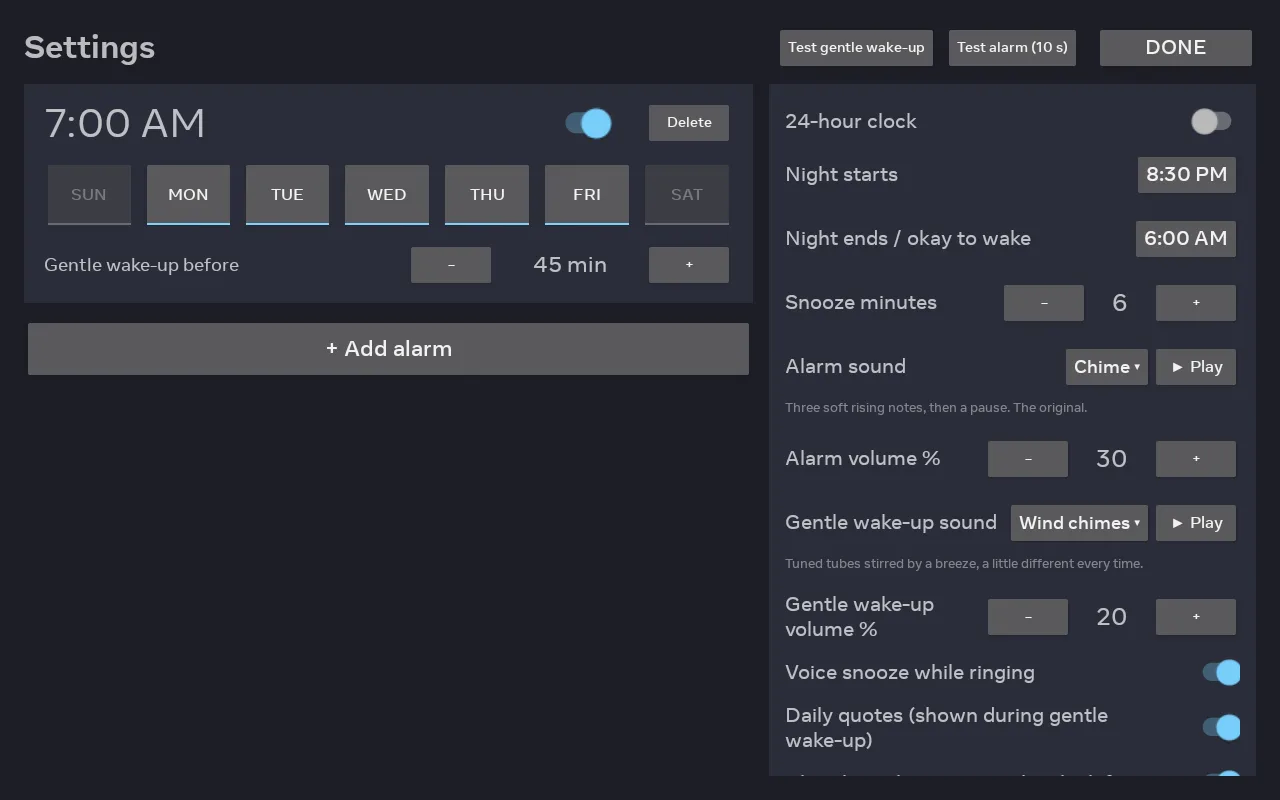
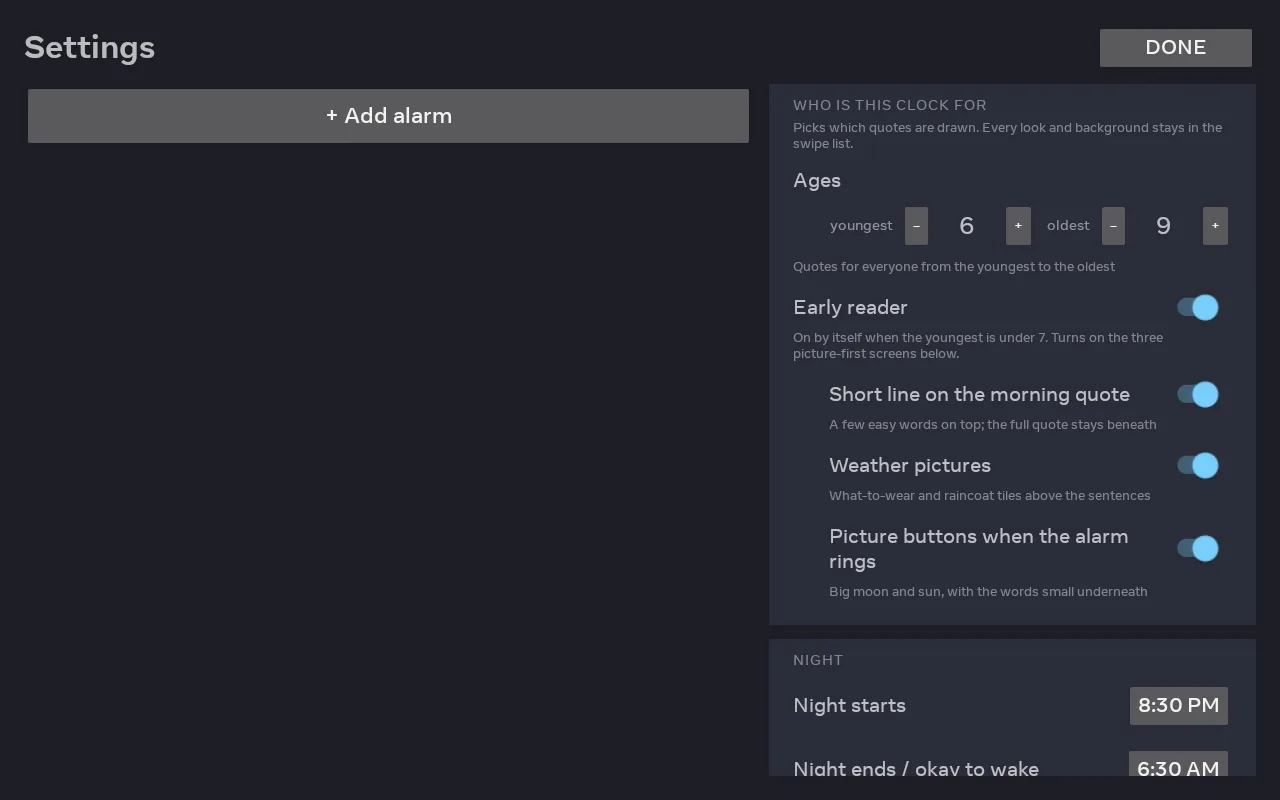
KidClock page: 0.5, one clock for two kids (#70)
Sixteen backgrounds and eighteen looks, the "Who is this clock for" card,
early-reader screens, the ring screen on the weather sky, wider voice
commands. Ten new Portal shots: the seven 0.5 themes, the ring screen, the
weather tiles and the gentle wake-up with its easy line; settings shot
refreshed. Home card text and alt updated.

Changed region(s): [[0.0, 0.0938, 0.9688, 0.9688], [0.5938, 0.0312, 0.8438, 0.0938], [0.0312, 0.3125, 0.1875, 0.3438]]

diff --git a/kidclock/index.html b/kidclock/index.html
@@ -4,7 +4,7 @@
 <meta charset="utf-8">
 <meta name="viewport" content="width=device-width, initial-scale=1">
 <title>KidClock</title>
-<meta name="description" content="KidClock: a fullscreen alarm clock for a converted 2018 Meta Portal. Gentle two-stage wake-ups, offline voice commands, a night mode that keeps the room dark, eleven looks for the time over nine backgrounds, holiday designs that appear on their own, a weather page written for a kid and a quote of the day. Free, open source, no accounts.">
+<meta name="description" content="KidClock: a fullscreen alarm clock for a converted 2018 Meta Portal. Gentle two-stage wake-ups, offline voice commands, a night mode that keeps the room dark, eighteen looks for the time over sixteen backgrounds, holiday designs that appear on their own, a weather page written for a kid, an early-reader mode for the youngest, and a quote of the day. Free, open source, no accounts.">
 <meta name="theme-color" content="#f4f6f8">
 <link rel="icon" type="image/png" href="../doomsday-tunnels/icon-192.png?v=2">
 <link rel="preload" href="../fonts/Syncopate-Bold.woff" as="font" type="font/woff" crossorigin>
@@ -65,7 +65,7 @@ footer p{margin:0}
 <header>
   <p class="crumb"><a href="../">Andrew Chase</a> / KidClock</p>
   <h1>KidClock</h1>
-  <p class="lede">An alarm clock for a kid's room, built for the 2018 Meta Portal once <a href="https://github.com/fcjr/unmetaportal">unmetaportal</a> has freed it to run plain Android. It wakes gently, keeps the room dark at night, listens for "I'm awake" only while it is supposed to, and never asks anyone to log in to anything.</p>
+  <p class="lede">An alarm clock for a kid's room, built for the 2018 Meta Portal once <a href="https://github.com/fcjr/unmetaportal">unmetaportal</a> has freed it to run plain Android. It wakes gently, keeps the room dark at night, listens for "I'm awake" only while it is supposed to, and never asks anyone to log in to anything. One clock can serve two kids of different ages: it asks how old they are and meets the youngest with pictures.</p>
   <p class="links">
     <a class="go" href="https://github.com/acechase/kidclock/releases/latest">Download the APK</a>
     <a href="https://github.com/acechase/kidclock">Code on GitHub</a>
@@ -86,11 +86,13 @@ footer p{margin:0}
     <li><strong>Two-stage mornings.</strong> A chosen number of minutes before the alarm, a soft sound plays once, the screen brightens with a green okay-to-wake lamp and the morning's quote appears. Saying "I'm awake" or tapping the button cancels that day's alarm. Otherwise the real alarm rings, ramping up over half a minute.</li>
     <li><strong>Sounds tuned to the research on waking.</strong> Five alarm sounds and five gentle sounds, all synthesized in code: hummable melodies around C5 at 112 BPM rather than mechanical beeps, with a music box, wind chimes, birdsong, a kalimba and a harp for the gentle side. Each has its own volume and a Play button to audition it.</li>
     <li><strong>Night mode</strong> from 8:30 pm to 6:30 am by default: amber digits on black, the screen dimmed as far as it goes, a red moon that turns into a green sun when it is okay to get up. An Always night switch keeps the amber-on-black colours all day at normal brightness.</li>
-    <li><strong>Voice without a cloud.</strong> "Snooze", "stop" and "I'm awake" are recognised on the device by Vosk. The microphone opens only while an alarm is ringing or a gentle wake-up is in progress, and the camera is never requested at all.</li>
-    <li><strong>Nine backgrounds</strong> to swipe between: Sky, Ocean, Rainbow, Galaxy, Fireflies, Aurora, Meadow, Doodle Strings (beaded pink strings hung with hearts doodled in a dozen marker styles, swaying) and Notebook (a ruled page covered in doodled hearts).</li>
-    <li><strong>Eleven looks for the time itself</strong>, chosen separately from the background. Hold the time for two seconds and a ring fills under your finger; then swipe sideways through Classic, Bold, Stacked, a real Analog dial for learning to read a clock, Sketch (marker on a paper scrap), Whacky (every digit a different font and tilt), Pixel, Magnets, Tiara (slim serif digits in champagne rose with a fine tiara on the hour), Marker (Caveat digits with a scribbled pink underline) and Marker Stacked (the stacked layout in pink marker with doodled tiaras), and tap to keep one. Every look has an amber night version.</li>
+    <li><strong>Voice without a cloud.</strong> "Snooze", "stop", "off", "I'm up" and "I'm awake" are recognised on the device by Vosk. The microphone opens only while an alarm is ringing or a gentle wake-up is in progress, and the camera is never requested at all.</li>
+    <li><strong>Who is this clock for.</strong> Settings opens by asking the kids' ages. The oldest age picks which quotes are drawn. An Early reader switch, on by itself when the youngest is under seven, turns on three picture-first screens, each with its own override: a few easy words ("Keep going.") big over the full quote during the gentle wake-up, what-to-wear and raincoat tiles above the sentences on the weather page, and a big moon and sun on the ring screen with the words small underneath.</li>
+    <li><strong>The ring screen</strong> sits on the day's weather sky for everyone, with Snooze and "I'm up!" as two large buttons. "Stop", "off" and "I'm up" end an alarm or a gentle wake-up by voice.</li>
+    <li><strong>Sixteen backgrounds</strong> to swipe between: Sky, Ocean, Rainbow, Galaxy, Fireflies, Aurora, Meadow, Doodle Strings (beaded pink strings hung with doodled hearts, swaying), Notebook (a ruled page covered in doodled hearts), Soccer Board (a coach's whiteboard with a pale green pitch, doodled round the edge with balls, boots, goals and jerseys), Stadium (floodlight masts beaming down on a night pitch, a goal with its net), Crab Tank (a hermit crab tank with sand, dishes, shells and driftwood), Night Reef (a reef after dark with swaying weed and bubbles), Stuffies (five plush animals on a star sheet, who swap places each day and wave now and then), Doodle Notebook (a ruled page of rockets, tanks, monsters, dinosaurs and a UFO) and Blueprint (the same figures inked white on blue with labels and a title block).</li>
+    <li><strong>Eighteen looks for the time itself</strong>, chosen separately from the background. Hold the time for two seconds and a ring fills under your finger; then swipe sideways through Classic, Bold, Stacked, a real Analog dial for learning to read a clock, Sketch (marker on a paper scrap), Whacky (every digit a different font and tilt), Pixel, Magnets, Tiara (slim serif digits in champagne rose with a fine tiara on the hour), Marker (Caveat digits with a scribbled pink underline), Marker Stacked (the stacked layout in pink marker with doodled tiaras), Jersey (navy numerals with a green shadow and a navy-and-white date pill), Scoreboard (glowing yellow digits on a black panel, the date in red LED capitals), Beach, Bubble (each digit in its own pale blue bubble), Plush (cream digits outlined in brown with a pink felt shadow), Marker Blue and Stencil (Black Ops digits like a part number on a crate), and tap to keep one. Every look has an amber night version.</li>
     <li><strong>Holiday designs.</strong> New Year's Eve, Valentine's Day, St. Patrick's Day, Easter, the Fourth of July, Halloween, Thanksgiving and Christmas each have their own background and lettering, from a witch hat on the hour to a string of fairy lights. Each appears by itself three days before the holiday and goes away the day after, giving the chosen design back. Swiping to another background or look in the meantime counts as a decision and keeps that choice. A switch in Settings turns the whole thing off.</li>
-    <li><strong>A quote a day, six actually.</strong> From a library of 260 quotes and bits of advice picked for a bright eleven-year-old, six are drawn each morning; tap the quote to see the next one.</li>
+    <li><strong>A quote a day, six actually.</strong> From a library of 260 quotes and bits of advice, each marked with the youngest age it suits, six are drawn each morning for the oldest kid using the clock; tap the quote to see the next one.</li>
     <li><strong>Weather</strong> from Open-Meteo with no key. Tap it for a page written for a kid rather than a meteorologist: how it feels now, where the day is going ("It warms up to 67° this afternoon, which is nice."), whether to pack a raincoat, what to wear ("Wear a hoodie or a light jacket. You can take it off later."), the temperature when leaving for school, at lunch, after school and at bedtime, and the week in a sentence ("Rain tomorrow, then it gets warmer every day. Wednesday is the warmest."). The page is painted for the sky at that moment: sunny, cloudy, rainy, snowy, a thunderstorm or a clear night. Every sentence comes from plain rules, not a language model. It is the only thing in the app that uses the network, and when the network goes away the clock carries on and the forecast quietly disappears rather than going stale.</li>
     <li><strong>Settings behind a two-second hold</strong> on the top-left corner, so stray taps never land in them. Tap the next-alarm line for a plain-language card about that alarm.</li>
   </ul>
@@ -106,14 +108,23 @@ footer p{margin:0}
   <figure class="shot"><img src="doodle-strings.webp" width="1280" height="800" alt="The Doodle Strings background with the Tiara look: plum serif digits reading 11:05 with a small gold tiara on the hour, over beaded pink strings hung with doodled hearts."><figcaption>Doodle Strings, with the Tiara look.</figcaption></figure>
   <figure class="shot"><img src="halloween.webp" width="1280" height="800" alt="The Halloween design: copper serif digits reading 11:04 with a witch hat on the hour, under a pale moon with a bat, with pumpkin hearts, bat-winged hearts and a cobweb in the corner."><figcaption>Halloween arrives on its own on October 28 and leaves on November 1.</figcaption></figure>
   <figure class="shot"><img src="christmas.webp" width="1280" height="800" alt="The Christmas design: white serif digits reading 11:05 under a string of glowing fairy lights, with snow, holly in the corners and candy-cane striped hearts."><figcaption>Christmas, with its fairy lights and candy-cane hearts.</figcaption></figure>
-  <figure class="shot"><img src="gentle-wake.webp" width="1280" height="800" alt="Gentle wake-up: a bright Sky face with a green lamp, a large quote card and a button labelled I'm awake."><figcaption>Gentle wake-up, with the morning's quote and the "I'm awake" button.</figcaption></figure>
+  <figure class="shot"><img src="gentle-wake.webp" width="1280" height="800" alt="Gentle wake-up on the Stuffies background: a green lamp, the time, and a frosted card with Keep going in large type over the morning's quote, with five plush animals peeking up from the bottom and a button labelled I'm awake."><figcaption>Gentle wake-up for an early reader: a few easy words over the morning's quote, and the "I'm awake" button.</figcaption></figure>
+  <figure class="shot"><img src="ring.webp" width="1280" height="800" alt="The ring screen on a sunny sky: Time to get up in a pill, a large 3:21 PM, a dark card with a moon and Snooze, 9 more minutes, and a yellow card with a sun and I'm up!, turns the alarm off, with a listening hint along the bottom."><figcaption>The ring screen: a moon to snooze, a sun to get up, on the day's weather sky.</figcaption></figure>
+  <figure class="shot"><img src="stuffies.webp" width="1280" height="800" alt="The Stuffies background with the Plush look: cream digits reading 3:21 outlined in brown with a pink felt shadow, over a star-print sheet, with a spotted fawn, a red panda, an elephant, a small fawn and a puppy sitting along the bottom."><figcaption>Stuffies, drawn from a daughter's own stuffed animals, with the Plush look.</figcaption></figure>
+  <figure class="shot"><img src="soccer-board.webp" width="1280" height="800" alt="The Soccer Board background with the Jersey look: navy digits reading 3:21 with a green shadow over a coach's whiteboard with a pale green pitch, X-and-O plays and doodled balls, boots, goals, whistles, cones, trophies and jerseys round the edge."><figcaption>Soccer Board, a coach's whiteboard, with the Jersey look.</figcaption></figure>
+  <figure class="shot"><img src="stadium.webp" width="1280" height="800" alt="The Stadium background with the Scoreboard look: glowing yellow 3:21 on a black scoreboard with the date in red capitals, floodlight masts beaming down from each side, a goal with its net on the grass and a ball in the corner."><figcaption>Stadium at night, with the Scoreboard look.</figcaption></figure>
+  <figure class="shot"><img src="crab-tank.webp" width="1280" height="800" alt="The Crab Tank background with the Beach look: rounded navy digits reading 3:21 over a pale sky and sand, with a purple hermit crab in a spiral shell, a plant, dishes, shells and a driftwood hide."><figcaption>Crab Tank, for a house with a pet hermit crab, with the Beach look.</figcaption></figure>
+  <figure class="shot"><img src="night-reef.webp" width="1280" height="800" alt="The Night Reef background with the Bubble look: each digit of 3:21 in its own pale blue bubble over a deep blue sea with a moon, bubbles, green weed and a small hermit crab on the floor."><figcaption>Night Reef, with the Bubble look.</figcaption></figure>
+  <figure class="shot"><img src="doodle-notebook.webp" width="1280" height="800" alt="The Doodle Notebook background with the Marker Blue look: blue marker digits reading 3:21 on a ruled page covered in doodles of a rocket, a tank, monsters, a dragon, a race car, a UFO, a volcano, a robot, a shark and a submarine, with BOOM!, RAWR and zoom! scrawled between them."><figcaption>Doodle Notebook, with the Marker Blue look.</figcaption></figure>
+  <figure class="shot"><img src="blueprint.webp" width="1280" height="800" alt="The Blueprint background with the Stencil look: white stencil digits reading 3:21 on blue graph paper, with labelled white line figures of a rocket, a tank, a monster, a robot, a T-rex and a UFO, and a title block in the corner reading KidClock Room Clock."><figcaption>Blueprint, the same figures as engineering drawings, with the Stencil look.</figcaption></figure>
+  <figure class="shot"><img src="weather-tiles.webp" width="1280" height="800" alt="The weather page for an early reader: a sunny sky, a large 74° marked nice, a T-shirt tile and a No raincoat tile with icons, the sentences It cools down to 44° tonight and No rain today, and cards for the rest of the day and the week."><figcaption>The weather page with picture tiles on, for a kid who is still learning to read.</figcaption></figure>
   <figure class="shot"><img src="night.webp" width="1280" height="800" alt="Night mode: dim amber 9:34 AM on black with a small red crescent moon in the corner."><figcaption>Night mode, as dark as the panel will go.</figcaption></figure>
   <figure class="shot"><img src="analog.webp" width="1280" height="800" alt="The Analog look: a large white dial with a sweeping red second hand on the Sky background, beside the digital time, the date and the quote."><figcaption>The Analog look, for learning to read a clock.</figcaption></figure>
   <figure class="shot"><img src="aurora.webp" width="1280" height="800" alt="The Aurora background: white digits over green and violet curtains of light above dark mountains."><figcaption>Aurora, one of the nine backgrounds.</figcaption></figure>
   <figure class="shot"><img src="magnets.webp" width="1280" height="800" alt="The Magnets look: each digit of 1:38 on its own tilted coloured tile, PM on a purple one, the date on a white tile."><figcaption>Magnets: fridge tiles.</figcaption></figure>
   <figure class="shot"><img src="whacky.webp" width="1280" height="800" alt="The Whacky look: 1:40 with every digit in a different font, colour and tilt, shadows falling upward, PM in a balloon, the date riding a wave and a pink and yellow checkerboard floor."><figcaption>Whacky, for mornings that need it.</figcaption></figure>
   <figure class="shot"><img src="weather.webp" width="1280" height="800" alt="The weather page on a sunny evening: a blue sky with a sun in the corner and a cloud, a large 60° marked cool, the sentences Sunny now then clear tonight, It cools down to 49° tonight and No rain today, a card saying Wear long sleeves, and cards for the rest of the day and the week."><figcaption>Tap the weather: a page for a kid, painted for the sky right now.</figcaption></figure>
-  <figure class="shot"><img src="settings.webp" width="1280" height="800" alt="Settings: an alarm card with day toggles and a gentle wake-up lead, and a column of switches for night times, sounds, volumes, quotes and weather."><figcaption>Settings: alarms, sounds, volumes, night window, quotes, weather.</figcaption></figure>
+  <figure class="shot"><img src="settings.webp" width="1280" height="800" alt="Settings: an Add alarm button and a column of cards, the first asking who the clock is for with youngest and oldest age steppers, an Early reader switch and three switches under it, then Night and Sounds cards."><figcaption>Settings: who the clock is for, then alarms, night window, sounds and the rest in cards.</figcaption></figure>
 </div>
 
 <section id="install">
@@ -122,13 +133,13 @@ footer p{margin:0}
   <ol>
     <li>Download <code>kidclock-&lt;version&gt;.apk</code> from the <a href="https://github.com/acechase/kidclock/releases/latest">latest release</a>.</li>
     <li>Install it and grant the microphone:
-<pre>adb install -r -g kidclock-0.4.apk
+<pre>adb install -r -g kidclock-0.5.apk
 adb shell pm grant com.acechase.kidclock android.permission.RECORD_AUDIO</pre></li>
     <li>Make it the home screen and lock it in:
 <pre>~/unmetaportal/tools/portal-kiosk-enable.sh \
   --component com.acechase.kidclock/.ClockActivity --set-home --yes
 adb shell dumpsys deviceidle whitelist +com.acechase.kidclock</pre></li>
-    <li>Hold the top-left corner of the clock for two seconds to open Settings. Add an alarm, choose sounds and volumes, set the weather location, then unplug the cable. The clock comes back on its own after a power cut or reboot.</li>
+    <li>Hold the top-left corner of the clock for two seconds to open Settings. Say how old the kids are, add an alarm, choose sounds and volumes, set the weather location, then unplug the cable. The clock comes back on its own after a power cut or reboot.</li>
     <li>Swipe to pick a background. Hold the time for two seconds, then swipe, to pick a look. Holiday designs take over by themselves for a few days around each holiday.</li>
   </ol>
   <p class="note">The APK is about 80 MB because it bundles the offline speech model. It is signed with an Android debug key, so to replace it with a build of your own you uninstall first or build with the same keystore.</p>

diff --git a/index.html b/index.html
@@ -77,9 +77,9 @@ footer p{margin:0}
     <h3>KidClock</h3>
     <p class="when"><time datetime="2026-10">October 2026</time></p>
     <figure class="shot">
-      <img src="kidclock/gentle-wake.webp" width="1280" height="800" style="aspect-ratio:1280/800" alt="A Meta Portal screen showing a bright blue clock face reading 12:23, a green lamp, a large quote card and a button labelled I'm awake.">
+      <img src="kidclock/gentle-wake.webp" width="1280" height="800" style="aspect-ratio:1280/800" alt="A Meta Portal screen during a gentle wake-up: a green lamp, the time over a star-print sheet with plush animals along the bottom, a card reading Keep going over the morning's quote, and a button labelled I'm awake.">
     </figure>
-    <p>An alarm clock designed for my kids' needs, running on a 2018 Meta Portal that unmetaportal freed from its Facebook login. It wakes them in two stages with a soft sound and the morning's quote, listens for "I'm awake" without any cloud, keeps the room dark at night, shows the weather, lets them hold the time to pick one of eleven looks over nine backgrounds, and dresses up on its own for the holidays. Native Kotlin, no accounts, no camera.</p>
+    <p>An alarm clock designed for my kids' needs, running on a 2018 Meta Portal that unmetaportal freed from its Facebook login. It wakes them in two stages with a soft sound and the morning's quote, listens for "I'm awake" without any cloud, keeps the room dark at night, shows the weather, lets them hold the time to pick one of eighteen looks over sixteen backgrounds, meets an early reader with pictures, and dresses up on its own for the holidays. Native Kotlin, no accounts, no camera.</p>
     <p class="links">
       <a class="go" href="kidclock/">About the clock</a>
       <a href="https://github.com/acechase/kidclock/releases/latest">Download</a>
